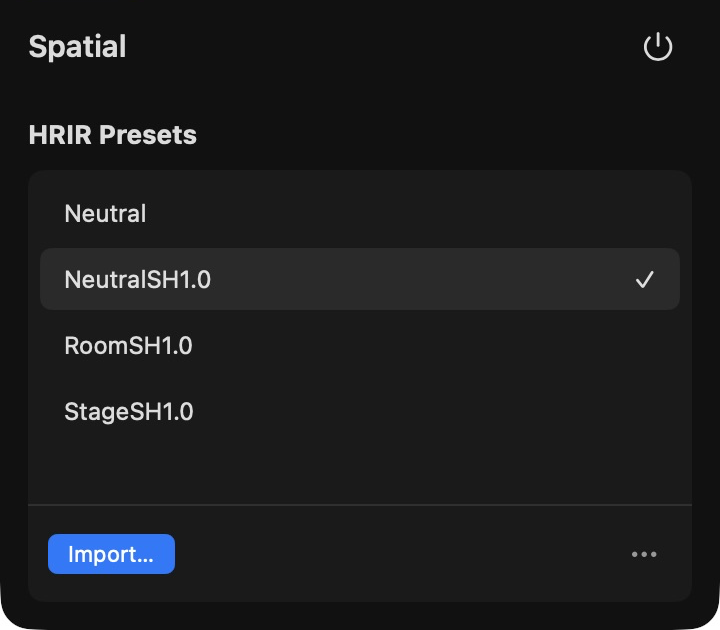
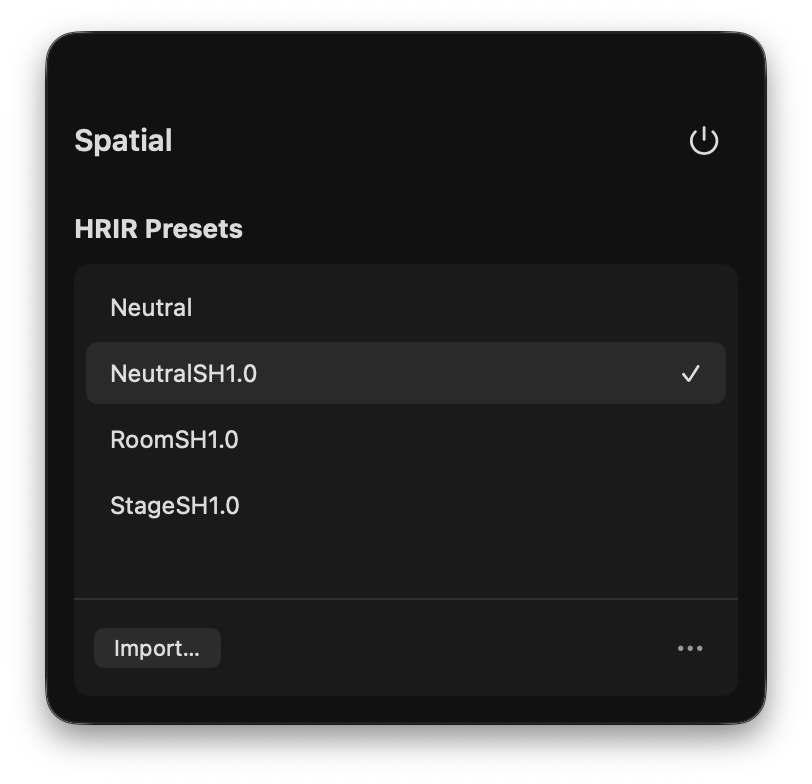
Expand the Airwave 3 README and refresh screenshots

diff --git a/README.md b/README.md
@@ -1,71 +1,214 @@
 <div align="center">
-  <img src="Airwave3/Branding.xcassets/AirwaveWelcomeIcon.imageset/airwave-welcome.png" alt="Airwave icon" width="112" height="112" />
   <h1>Airwave</h1>
+  <img src="Airwave3/Branding.xcassets/AirwaveWelcomeIcon.imageset/airwave-welcome.png" alt="Airwave icon" width="128" height="128" />
   <p>System-wide audio effects and per-app volume for macOS.</p>
-  <p><a href="https://github.com/sallliisa/Airwave/releases">Releases</a> · <a href="https://github.com/sallliisa/Airwave/issues">Report an issue</a></p>
+  <p><a href="https://github.com/sallliisa/Airwave/releases"><strong>Download Airwave</strong></a> · <a href="https://github.com/sallliisa/Airwave/issues">Support</a> · <a href="https://ko-fi.com/Q5Q51RNAGT">Ko-fi</a></p>
 </div>
 
-Airwave gives each audio output its own chain of Audio Unit effects. Give your headphones spatial audio, leave your speakers untouched, and lower the volume of a noisy app while your music keeps playing.
+<p align="center">
+  <img src="docs/images/v3-effects.png" alt="Effects tab showing the saved effect chain for an audio output" width="760" />
+</p>
 
-![Airwave Effects tab with Spatial and Equalizer in an output’s effect chain](docs/images/v3-effects.png)
+## What Airwave does
 
-## Effects
+Airwave captures playback from your Mac, applies the effect chain for your current audio output, and plays the result through that output. Each output has its own chain. You can keep Spatial and Equalizer on your headphones, use a different EQ on your speakers, and leave another output with an empty chain.
 
-Choose an output in **Effects**, then click **Add Effect…** to browse installed Audio Units. Search by name or filter by publisher. Click an effect card to open its controls, drag the card to reorder it, or use its power button to bypass that instance. You can add the same effect more than once.
+The App Mixer adjusts volume or mute for individual apps. Those adjustments apply before the output's effects. You can turn a browser down without changing your music volume, then change headphones without having to set the browser volume again.
 
-Airwave applies the chain saved for the output selected in macOS. The picker in **Effects** selects which chain you edit. Use the menu next to it to configure the left and right output channels on a supported device.
+macOS still controls the current output and its overall volume. In Airwave, the output picker selects the chain you want to edit. It also lets you edit a saved chain while another output is playing.
 
-### Included Audio Units
+## Requirements
 
-- **Spatial** gives stereo headphones a more speaker-like presentation using HRIR convolution. It includes `NeutralSH1.0`, `RoomSH1.0`, and `StageSH1.0` and can import compatible HeSuVi WAV files.
-- **Equalizer** includes five presets and imports Equalizer APO text configs. It supports parametric filters, graphic EQ, preamp gain, and convolution. For a config that references other text files or WAV impulse responses, import the folder containing `config.txt` and its companion files.
+- macOS 15 Sequoia or later on an Intel or Apple silicon Mac.
+- A supported physical audio output. Airwave supports stereo and compatible multichannel input. Virtual and aggregate devices are unsupported as playback targets.
+- System Audio Capture permission. Airwave uses playback audio for effects and mixing. It requires no microphone access.
 
-Both effects are bundled with Airwave. You can also use them in another compatible Audio Unit host. Keep Airwave in Applications, open it once, then rescan Audio Units in the other host if needed.
+Speakers and headphones work with the host. Use stereo headphones for Spatial. HRIR convolution is intended to make headphones sound more speaker-like and can sound different through speakers.
 
-![Spatial controls with the HRIR preset library](docs/images/v3-spatial.png)
+## Installation
 
-## App Mixer
+This README covers the Airwave 3 release candidate. The download and Homebrew commands below install the latest published release. To try the candidate before it ships, use [Build from source](#build-from-source).
 
-Play audio in an app and open **App Mixer** to set its volume or mute it. Airwave remembers your adjustments. Quiet apps with custom settings appear under **Saved Adjustments**, where you can edit or clear them. The menu bar mixer gives you quick access to playing and recent apps.
-
-![Airwave App Mixer with volume and mute controls for individual apps](docs/images/v3-app-mixer.png)
-
-The power control in the main window bypasses both the effect chain and per-app volume adjustments. Closing the window leaves Airwave running in the background. To stop it completely, use the exit button or choose **Quit Airwave** from the menu bar.
-
-## Install and set up
-
-Airwave requires **macOS 15 Sequoia or later** and a supported physical audio output. The host works with speakers and headphones. Use stereo headphones for Spatial.
-
-> This branch documents the Airwave 3 release candidate. The download and Homebrew commands install the latest published release.
-
-Download the ZIP from [GitHub Releases](https://github.com/sallliisa/Airwave/releases) and move `Airwave.app` into Applications, or install with Homebrew.
+### Homebrew
 
 ```sh
 brew tap sallliisa/airwave
 brew install --cask airwave
 ```
 
-1. Open Airwave and click **Get Started**.
-2. Click **Test Audio Access**. Airwave plays a short test sound. Allow system audio recording if macOS prompts you, then test again if needed. Airwave uses system audio capture. It requires no microphone access.
-3. Add any effects you want for the current output, or continue with an empty chain.
-4. Choose **Launch at Login** and **Show in Menu Bar** on the final page. You can change both later in **Settings**.
+### Download
 
-For capture or routing issues, open **Setup & Troubleshooting** in **Settings** and run the audio test again. Check that macOS has selected the intended output and that Airwave is on. For an interface, also check the saved channel pair in **Configure Output**.
+Download the ZIP from [GitHub Releases](https://github.com/sallliisa/Airwave/releases), unzip it, and move `Airwave.app` into Applications. Open Airwave from there so macOS can register both bundled Audio Units.
+
+## First launch
+
+### 1. Welcome
+
+Open Airwave and click **Get Started**. Have your usual playback device connected so you can test the output you plan to use.
+
+<p align="center">
+  <img src="docs/images/v3-welcome.png" alt="Airwave welcome page and Get Started button" width="700" />
+</p>
+
+### 2. Allow system audio
+
+Click **Test Audio Access**. Airwave plays a short test sound and checks whether it can capture playback. If macOS asks for permission to record system audio, allow it and run the test again if needed. Continue when Airwave reports **System audio is ready**.
+
+If the test fails, the page shows the reason and offers to open System Settings. Once access is enabled and the output is connected, click **Test Again**.
+
+### 3. Add effects
+
+Click **Add Effects…** to open the Audio Unit picker for your current output. Choose as many effects as you want, then click **Done**. The order you add them is the order in which they process audio. You can reorder the chain later.
+
+Choose Airwave in **All Publishers** to find Spatial and Equalizer. You can also continue with an empty chain and use Airwave for app volume control alone.
+
+### 4. Finish setup
+
+Choose whether Airwave should launch at login and whether it should appear in the menu bar. **Show in Menu Bar** starts enabled on a fresh setup. Both options are also available in Settings. Click **Finish Setup** to open the main window.
+
+## Effect chains
+
+### Add, open, or reorder an effect
+
+1. Open **Effects** and select an output in the device picker.
+2. Click **Add Effect…**. Search by effect or publisher name, or choose a publisher from **All Publishers**. Click **Rescan** if you installed an Audio Unit while Airwave was open.
+3. Click the effect to add it. Repeat to add another instance of the same Audio Unit with its own settings.
+4. Click an effect card to open its controls. Drag the card to reorder it, or choose **Move Up** or **Move Down** from its ellipsis menu. Airwave processes the chain from top to bottom.
+
+Use an effect's power button to bypass that instance without losing its settings. The power button in the controls window changes the same state. Use **Remove Effect** in the ellipsis menu to remove the instance from the chain.
+
+For example, put Spatial before Equalizer if you want the EQ to shape the stereo signal that comes out of Spatial. Put an EQ first if you want it to shape the signal that goes into Spatial. The order is part of the saved output chain.
+
+### Switch outputs or configure an interface
+
+When you change the macOS sound output, Airwave uses the chain saved for that device. Choose another device in **Effects** if you want to prepare its chain ahead of time. The speaker icon on a device identifies the current macOS output. **Live Output** takes you back to editing that output.
+
+The ellipsis next to the output picker contains the device actions.
+
+| Action | What it does |
+| --- | --- |
+| **Configure Output…** | Assigns Airwave's left and right stereo signal to two distinct channels on a supported output. Connect the device to configure its available channels. |
+| **Reset Effects…** | Clears the effect chain for a connected output and keeps its saved channel assignment. |
+| **Remove Saved Profile…** | Removes the chain and channel assignment for a disconnected device. Reconnect the device to configure it again. |
+
+A saved channel number is a destination on the device. Check which physical jack it reaches before choosing the pair. For example, if your monitors are wired to outputs 3 and 4 on an interface, assign channel 3 to the left speaker and channel 4 to the right. Airwave uses the saved pair even if your chain is empty. If you want the device's default stereo pair back, open **Configure Output…** and click **Use macOS Default**.
+
+## Bundled Audio Units
+
+Airwave ships Spatial and Equalizer in the same application. Add either from the Airwave publisher in **Add Effect…**. Click its card to choose a preset. Each instance keeps its own selection, so the same plug-in can use a different preset on each output.
+
+### Spatial
+
+Spatial uses HRIR convolution to give stereo headphones a wider, more speaker-like sound. The library includes `NeutralSH1.0`, `RoomSH1.0`, and `StageSH1.0`. Open Spatial's controls and click a preset to hear it while audio plays. Use the power button to compare it with the dry signal.
+
+<p align="center">
+  <img src="docs/images/v3-spatial.png" alt="Spatial controls with a library of HRIR presets" width="410" />
+</p>
+
+To add your own HRIR, click **Import…** and select a compatible HeSuVi WAV file. Bundled and imported presets share the same library. The ellipsis contains the preset management actions. The [HeSuVi HRTF Database](https://airtable.com/embed/appac4r1cu9UpBNAN/shrpUAbtyZxhDDMjg/tblopH2GznvFipWjq/viwnouWPGDuYEd8Go) has more datasets.
+
+### Equalizer
+
+Equalizer imports Equalizer APO text presets and displays the frequency response for the preset in use. It includes Bass Booster, Bass Reducer, Treble Booster, Treble Reducer, and Vocal Booster. Use the preset picker in the controls window to switch presets. Use the effect power button to compare with the original signal, or **Clear Preset** to clear the selection in that instance.
+
+<p align="center">
+  <img src="docs/images/v3-equalizer.png" alt="Equalizer controls and the stereo frequency response" width="570" />
+</p>
+
+Click **Import…** for an Equalizer APO text file, folder, or Airwave `.apo` archive. **Paste Preset** takes Equalizer APO text from the clipboard. Use a folder import when a config calls `Include` or `Convolution`. Select the folder containing `config.txt` and all companion files. Keep relative paths inside it. If Airwave asks for access to companion files after you select the config directly, choose the folder that contains them. [AutoEq](https://autoeq.app/) is a source of headphone presets.
+
+The importer supports `Preamp`, `GraphicEQ`, and common biquad filters such as peaking, pass, notch, and shelf filters. Use Q, octave bandwidth, or shelf slope where the filter accepts it. Write frequencies in decimal Hz or as ungrouped integers such as `6000`.
+
+For presets with routing or device-dependent instructions:
+
+- `Channel`, `Copy`, and `Delay` operate in config order on Equalizer's stereo signal. Use `L`, `R`, `1`, or `2` to reference a channel. `Channel: all` selects both channels. Delay accepts milliseconds or samples.
+- `Convolution` accepts WAV impulse responses up to 0.5 seconds. The WAV sample rate must match the output. The combined graphic EQ and convolution response limit is 96,000 frames through 48 kHz, 48,000 frames through 96 kHz, and 32,768 frames above 96 kHz.
+- `If`, `ElseIf`, `Else`, `EndIf`, `Eval`, and backtick expressions can use output information supplied by Airwave. Available values include sample rate, channel counts, and device name or UID. If a preset targets a Windows device name or GUID, replace it with the macOS output name or UID. `Stage: post-mix` selects playback. Airwave skips `pre-mix` and `capture` sections.
+- `Filter: ON IIR` accepts stable filters of order 1 through 32. The combined order limit for a preset is 512. Use a sample-rate condition when your coefficients vary by rate.
+- `Include` and `Convolution` paths must be literal and available at import, including files referenced inside conditions. Windows registry functions, Windows VST plug-ins, and system-volume loudness correction are outside the supported config syntax.
+
+### Use them in another Audio Unit host
+
+Install Airwave in Applications, open it once, and look for Spatial and Equalizer under **Airwave** in the other app's Audio Unit list. Rescan Audio Units or reopen that host if the effects are missing. Choose the effect on the track or output you want to process. If both hosts process the same playback, bypass Airwave's system-wide processing or quit Airwave to hear the other host's processing by itself.
+
+## App Mixer
+
+<p align="center">
+  <img src="docs/images/v3-app-mixer.png" alt="App Mixer showing different volume settings for two audio sources" width="760" />
+</p>
+
+Play audio in an app so it appears in **Playing & Recent**. Move its slider to set the volume and click the speaker button to mute or unmute it. Muting keeps the slider's current value. **System Sounds** is the row for macOS sound effects after one plays.
+
+Airwave keeps apps in **Playing & Recent** for about 45 seconds after they stop producing audio. When an adjusted app drops out of that list, it moves to **Saved Adjustments**. You can change its volume or mute there before it plays again. Right-click a saved row and choose **Clear Saved Adjustment** to return it to 100% and unmute it.
+
+The menu bar mixer is for quick access. It lists playing and recent apps and uses the same controls and saved values as the main window. Click **Open App Mixer** to manage saved adjustments. Changing the macOS master volume still affects the whole output.
+
+For example, if you keep music playing during a call, you can lower the music app in the mixer and leave the call at 100%. Airwave applies those settings again the next time either app plays. If you switch to headphones, their saved effects apply to the mix at the new output.
+
+## Running Airwave
+
+The main window's power control pauses both the effect chain and the App Mixer. Switch it back on to resume with the same chain, sliders, and mute settings.
+
+Closing the window leaves Airwave running. Choose **Quit Airwave** from the menu bar or use the exit button in the window to stop processing and quit. If you hide the menu bar icon, reopen Airwave from Applications or Spotlight to bring its window back.
+
+### Settings
+
+- **Launch at Login** starts Airwave after you sign in.
+- **Show in Menu Bar** gives you access to the quick mixer and Quit Airwave. Airwave can run in the background with this setting off.
+- **Setup & Troubleshooting** reopens setup so you can run the capture test again.
+- **Software Update** checks for a newer published version when the installed build supports updates.
+- **Version** shows the installed version.
+
+<p align="center">
+  <img src="docs/images/v3-settings.png" alt="Airwave settings for login, menu bar access, setup, and software updates" width="700" />
+</p>
 
 ## Upgrading from Airwave 2
 
-Airwave 3 imports supported Airwave 2 device profiles and presets. If an output used both Spatial and Equalizer, its new chain puts Spatial first. Imported presets are available in the respective effect controls and the original preset files stay on disk. If an assigned preset can’t be opened, its effect stays bypassed until you pick a replacement.
+Airwave 3 uses the same application identity. Install it over Airwave 2 or use the normal updater once Airwave 3 is published. Open it so it can import your existing configuration.
+
+Airwave imports saved output profiles, channel assignments, and compatible presets. An output that used both Spatial and EQ gets a chain with Spatial first and Equalizer second. Open each effect's controls to find imported presets. Airwave leaves the original preset files on disk. If an assigned preset cannot be loaded, the affected effect stays bypassed until you choose a replacement. Other saved effects remain available.
+
+After an upgrade, open **Effects** and select your usual output. Verify the effect order and open each effect to check its selected preset. If you used a custom interface channel pair in Airwave 2, check that pair in the device menu before you play through the interface. Your saved menu bar choice carries over.
+
+## Troubleshooting
+
+### System audio access fails
+
+Open **Settings**, then **Setup & Troubleshooting**, and choose **Test Audio Access**. If macOS prompts for permission, allow Airwave to capture system audio. If access is already denied, use **Open System Settings** on the test page and update Airwave's permission under **Privacy & Security**. Run the test again.
+
+### An effect has no audible result
+
+Check the macOS output and the output selected in **Effects**. Use **Live Output** to edit the chain that is playing. Check that the main power control and the effect's power control are both on. Open the effect's controls and check its preset. For Spatial, listen through stereo headphones. Try bypassing the effect while a track plays to compare the two signals.
+
+### Audio reaches the wrong channels
+
+Choose the physical output in macOS. In **Effects**, open the device menu and choose **Configure Output…**. Confirm the two channel numbers correspond to the jacks you are using, then save the left and right assignments together.
+
+### An output or Audio Unit is missing
+
+Reconnect the output and check that it appears under macOS sound outputs. Airwave lists supported physical outputs and retains saved profiles for disconnected devices. For a missing Audio Unit, check the installation, clear the search and publisher filter in **Add Effect…**, then click **Rescan**.
+
+### An app is missing from the mixer
+
+Start playback in the app, then look in **Playing & Recent**. A short system alert can appear as **System Sounds**. If you previously muted the app or changed its volume, look under **Saved Adjustments** in the main window as well. Open the menu bar mixer again to refresh its list of recent apps.
 
 ## Build from source
 
-Open `Airwave.xcodeproj` in full Xcode and run the **Airwave3** scheme. The **Airwave** scheme builds Airwave 2 for compatibility checks. See the [Airwave 3 release rehearsal](docs/airwave-3-release.md) for packaging and upgrade verification.
+Open `Airwave.xcodeproj` in full Xcode and choose the **Airwave3** scheme. It builds the host and embeds the Spatial and Equalizer Audio Units. The **Airwave** scheme builds the Airwave 2 app for compatibility checks. See the [Airwave 3 release rehearsal](docs/airwave-3-release.md) for build, packaging, and upgrade verification.
 
-## License and credits
+## License
 
 Airwave is licensed under the [GNU General Public License v3](LICENSE).
 
+## Credits
+
 - Spatial is inspired by [HeSuVi](https://sourceforge.net/projects/hesuvi/). Third-party HRIR datasets remain subject to their respective licenses.
-- [AutoEq](https://autoeq.app/) is a source of headphone equalizer presets.
+- [AutoEq](https://autoeq.app/) provides headphone equalizer presets.
 - The Airwave mark uses [Material Symbols](https://fonts.google.com/icons).
 
-If you find Airwave useful, you can [support development on Ko-fi](https://ko-fi.com/Q5Q51RNAGT).
+## Support
+
+For bugs and feature requests, [open an issue on GitHub](https://github.com/sallliisa/Airwave/issues). For audio issues, include your Airwave version, macOS version, output device, and the affected effect or app.
+
+If Airwave is useful to you, you can [support its development on Ko-fi](https://ko-fi.com/Q5Q51RNAGT).
